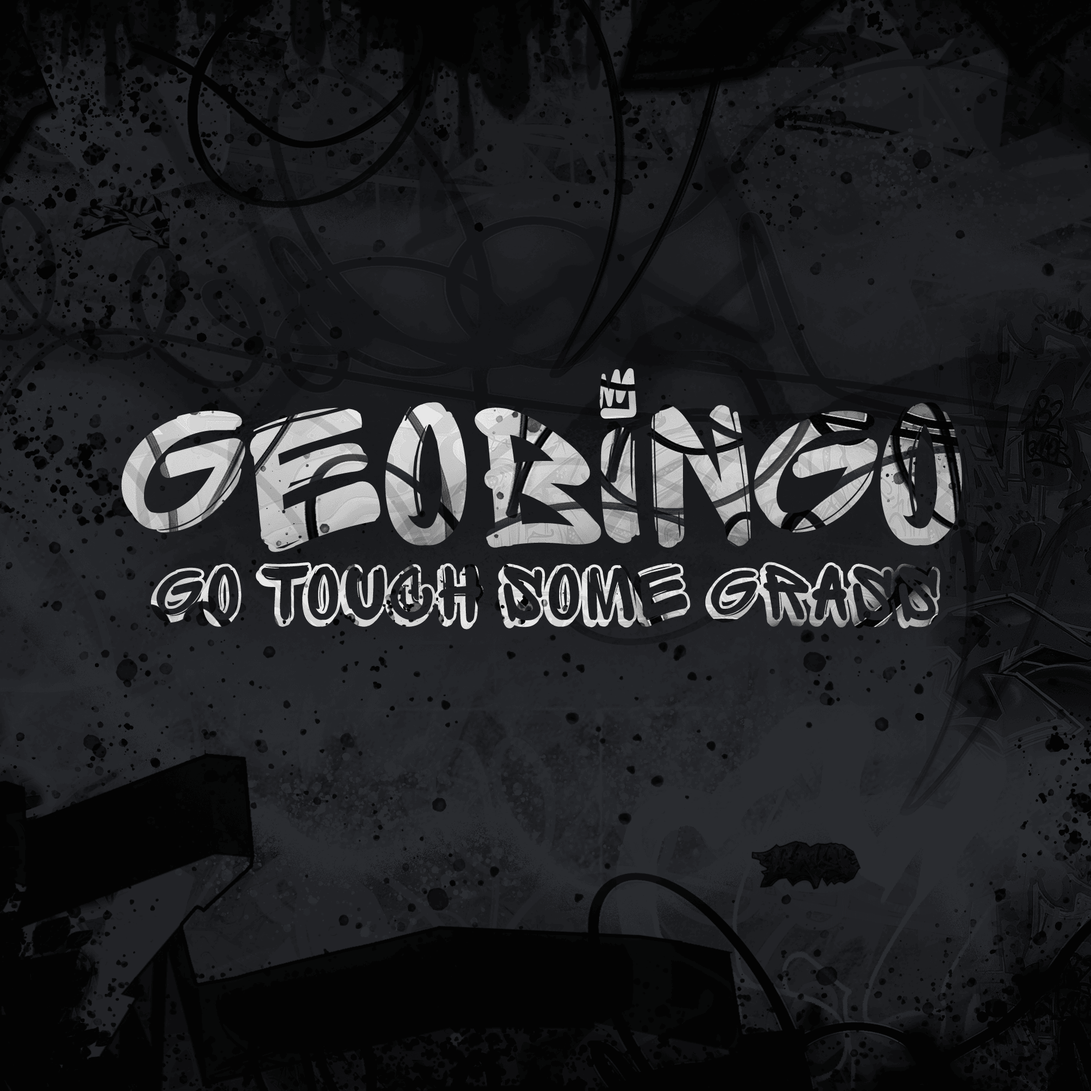
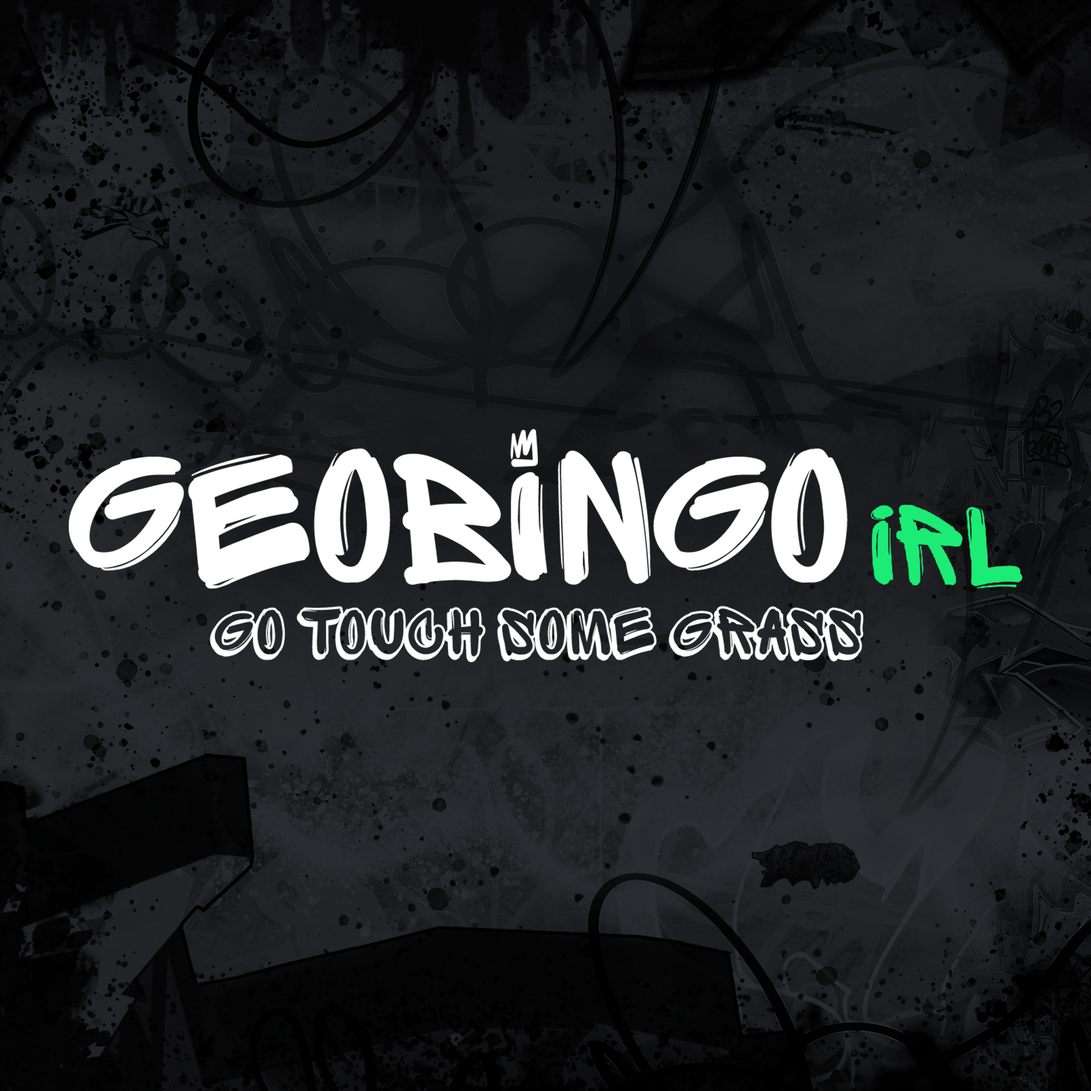
Rebranding

Changed region(s): [[0.062, 0.341, 0.93, 0.62]]

diff --git a/index.html b/index.html
@@ -4,9 +4,14 @@
 <head>
     <meta charset="UTF-8">
     <meta name="viewport" content="width=device-width, initial-scale=1.0">
-    <title>📍 Geobingo</title>
+    <title>📍 Geobingo IRL</title>
     <link rel="stylesheet" href="style.css">
     <link rel="shortcut icon" href="resources/favicon.ico" type="image/x-icon">
+
+    <meta name="description" content="Geobingo is an open-source game where you and your friends are assigned prompts
+    to find and photograph in the real world.">
+    <meta name="keywords" content="Geobingo, Github, Open Source, Game, express, nodejs">
+    <meta name="robots" content="index, follow">
 
     <meta property="og:title" content="📍 Geobingo">
     <meta property="og:description" content="Geobingo is an open-source game where you and your friends are assigned prompts
@@ -24,7 +29,7 @@
     <div class="container">
         <div class="intro">
             <h1 class="intro-header">Challenge friends to search for prompts <strong>in real life</strong></h1>
-            <p class="intro-description">Geobingo is an open-source game where you and your friends are assigned prompts
+            <p class="intro-description">Geobingo IRL is an open-source game where you and your friends are assigned prompts
                 to find and photograph in the real world.</p>
         </div>
     </div>
@@ -39,8 +44,8 @@
         </form>
     </div>
 
-    <h1 class="block">Features:</h1>
     <div class="card block">
+        <h2 class="card-header">Features</h2>
         <ul class="features-list">
             <li><span>🤝</span> Teams are supported. Play with multiple people together</li>
             <li><span>📱</span> Built from the ground up for mobile</li>

diff --git a/style.css b/style.css
@@ -19,7 +19,6 @@ body {
     height: 100px;
     margin: 0 auto;
     display: block;
-    filter: invert(1);
 }
 
 .block {
